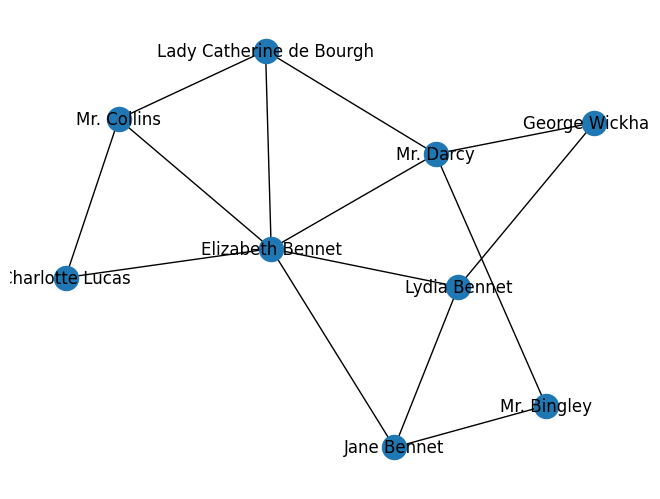
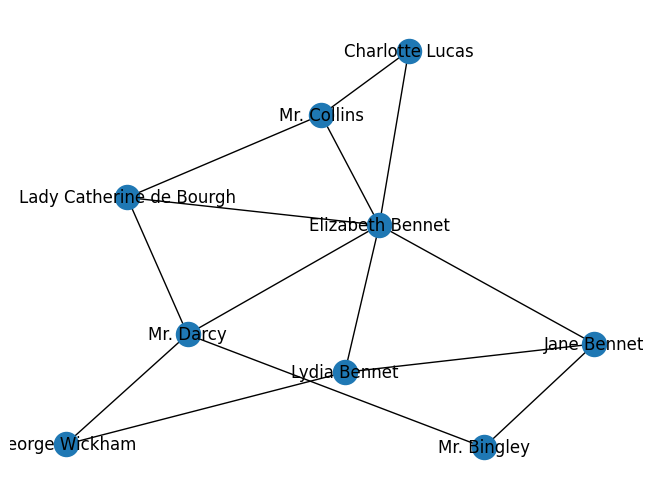
Built site for gh-pages

diff --git a/posts/DataPreProcessingandInformation/DataPreprocessingandInformation.html b/posts/DataPreProcessingandInformation/DataPreprocessingandInformation.html
@@ -218,7 +218,7 @@ code span.wa { color: #60a0b0; font-weight: bold; font-style: italic; } /* Warni
 
 
 
-<div class="cell" data-scrolled="true" data-execution_count="1">
+<div class="cell" data-scrolled="true" data-execution_count="3">
 <div class="sourceCode cell-code" id="cb1"><pre class="sourceCode python code-with-copy"><code class="sourceCode python"><span id="cb1-1"><a href="#cb1-1" aria-hidden="true" tabindex="-1"></a><span class="im">import</span> pandas <span class="im">as</span> pd</span>
 <span id="cb1-2"><a href="#cb1-2" aria-hidden="true" tabindex="-1"></a><span class="im">import</span> requests</span>
 <span id="cb1-3"><a href="#cb1-3" aria-hidden="true" tabindex="-1"></a><span class="im">import</span> matplotlib.pyplot <span class="im">as</span> plt</span>
@@ -260,11 +260,11 @@ code span.wa { color: #60a0b0; font-weight: bold; font-style: italic; } /* Warni
 [nltk_data] Downloading package wordnet to /home/jovyan/nltk_data...
 [nltk_data]   Package wordnet is already up-to-date!</code></pre>
 </div>
-<div class="cell-output cell-output-display" data-execution_count="1">
+<div class="cell-output cell-output-display" data-execution_count="3">
 <pre><code>True</code></pre>
 </div>
 </div>
-<div class="cell" data-execution_count="2">
+<div class="cell" data-execution_count="4">
 <div class="sourceCode cell-code" id="cb4"><pre class="sourceCode python code-with-copy"><code class="sourceCode python"><span id="cb4-1"><a href="#cb4-1" aria-hidden="true" tabindex="-1"></a>target_url <span class="op">=</span> <span class="st">"https://www.gutenberg.org/files/1342/1342-0.txt"</span></span>
 <span id="cb4-2"><a href="#cb4-2" aria-hidden="true" tabindex="-1"></a>response <span class="op">=</span> requests.get(target_url)</span>
 <span id="cb4-3"><a href="#cb4-3" aria-hidden="true" tabindex="-1"></a>pnp_string <span class="op">=</span> response.text</span>
@@ -272,7 +272,7 @@ code span.wa { color: #60a0b0; font-weight: bold; font-style: italic; } /* Warni
 <span id="cb4-5"><a href="#cb4-5" aria-hidden="true" tabindex="-1"></a>pnp_string <span class="op">=</span> pnp_string.split(<span class="st">'*** END OF THE PROJECT GUTENBERG EBOOK PRIDE AND PREJUDICE ***'</span>)[<span class="dv">0</span>]</span>
 <span id="cb4-6"><a href="#cb4-6" aria-hidden="true" tabindex="-1"></a>pnp_string <span class="op">=</span> pnp_string.lower()</span></code><button title="Copy to Clipboard" class="code-copy-button"><i class="bi"></i></button></pre></div>
 </div>
-<div class="cell" data-execution_count="3">
+<div class="cell" data-execution_count="5">
 <div class="sourceCode cell-code" id="cb5"><pre class="sourceCode python code-with-copy"><code class="sourceCode python"><span id="cb5-1"><a href="#cb5-1" aria-hidden="true" tabindex="-1"></a>stop <span class="op">=</span> stopwords.words(<span class="st">'english'</span>)</span>
 <span id="cb5-2"><a href="#cb5-2" aria-hidden="true" tabindex="-1"></a><span class="bu">print</span>(stop)</span>
 <span id="cb5-3"><a href="#cb5-3" aria-hidden="true" tabindex="-1"></a>myStopWords <span class="op">=</span> <span class="bu">list</span>(punctuation) <span class="op">+</span> stopwords.words(<span class="st">'english'</span>)</span>
@@ -291,7 +291,7 @@ code span.wa { color: #60a0b0; font-weight: bold; font-style: italic; } /* Warni
 </section>
 <section id="exploratory-data-visualization" class="level1">
 <h1>Exploratory Data Visualization:</h1>
-<div class="cell" data-execution_count="8">
+<div class="cell" data-execution_count="6">
 <div class="sourceCode cell-code" id="cb7"><pre class="sourceCode python code-with-copy"><code class="sourceCode python"><span id="cb7-1"><a href="#cb7-1" aria-hidden="true" tabindex="-1"></a><span class="co"># 1. Positive/negative words for Pride and Prejudice:</span></span>
 <span id="cb7-2"><a href="#cb7-2" aria-hidden="true" tabindex="-1"></a></span>
 <span id="cb7-3"><a href="#cb7-3" aria-hidden="true" tabindex="-1"></a>positive_words <span class="op">=</span> []</span>
@@ -331,28 +331,31 @@ code span.wa { color: #60a0b0; font-weight: bold; font-style: italic; } /* Warni
 <p><img src="DataPreprocessingandInformation_files/figure-html/cell-5-output-2.png" class="img-fluid"></p>
 </div>
 </div>
-<div class="cell" data-scrolled="true" data-execution_count="27">
+<div class="cell" data-scrolled="true" data-execution_count="7">
 <div class="sourceCode cell-code" id="cb8"><pre class="sourceCode python code-with-copy"><code class="sourceCode python"><span id="cb8-1"><a href="#cb8-1" aria-hidden="true" tabindex="-1"></a><span class="co"># 2. Word Frequency for Pride and Prejudice</span></span>
 <span id="cb8-2"><a href="#cb8-2" aria-hidden="true" tabindex="-1"></a></span>
 <span id="cb8-3"><a href="#cb8-3" aria-hidden="true" tabindex="-1"></a>pnp_words <span class="op">=</span> word_tokenize(pnp_string)</span>
 <span id="cb8-4"><a href="#cb8-4" aria-hidden="true" tabindex="-1"></a>myStopWords <span class="op">=</span> <span class="bu">list</span>(punctuation) <span class="op">+</span> stopwords.words(<span class="st">'english'</span>)</span>
 <span id="cb8-5"><a href="#cb8-5" aria-hidden="true" tabindex="-1"></a>wordsNoStop <span class="op">=</span> []</span>
-<span id="cb8-6"><a href="#cb8-6" aria-hidden="true" tabindex="-1"></a><span class="cf">for</span> i <span class="kw">in</span> pnp_words:</span>
-<span id="cb8-7"><a href="#cb8-7" aria-hidden="true" tabindex="-1"></a>    <span class="cf">if</span> i <span class="kw">not</span> <span class="kw">in</span> myStopWords:</span>
-<span id="cb8-8"><a href="#cb8-8" aria-hidden="true" tabindex="-1"></a>        wordsNoStop.append(i)</span>
-<span id="cb8-9"><a href="#cb8-9" aria-hidden="true" tabindex="-1"></a>wordsNoStopComp <span class="op">=</span> [w <span class="cf">for</span> w <span class="kw">in</span> pnp_words <span class="cf">if</span> w <span class="kw">not</span> <span class="kw">in</span> myStopWords]</span>
-<span id="cb8-10"><a href="#cb8-10" aria-hidden="true" tabindex="-1"></a>pnp_words <span class="op">=</span> [PorterStemmer().stem(w) <span class="cf">for</span> w <span class="kw">in</span> wordsNoStopComp]</span>
-<span id="cb8-11"><a href="#cb8-11" aria-hidden="true" tabindex="-1"></a></span>
-<span id="cb8-12"><a href="#cb8-12" aria-hidden="true" tabindex="-1"></a><span class="bu">print</span>(nltk.FreqDist(pnp_words).most_common(<span class="dv">40</span>))</span>
-<span id="cb8-13"><a href="#cb8-13" aria-hidden="true" tabindex="-1"></a></span>
-<span id="cb8-14"><a href="#cb8-14" aria-hidden="true" tabindex="-1"></a>df <span class="op">=</span> pd.DataFrame({<span class="st">'words'</span>: nltk.FreqDist(pnp_words).keys(),</span>
-<span id="cb8-15"><a href="#cb8-15" aria-hidden="true" tabindex="-1"></a>                   <span class="st">'frequencies'</span>: nltk.FreqDist(pnp_words).values()}) </span>
+<span id="cb8-6"><a href="#cb8-6" aria-hidden="true" tabindex="-1"></a></span>
+<span id="cb8-7"><a href="#cb8-7" aria-hidden="true" tabindex="-1"></a><span class="cf">for</span> i <span class="kw">in</span> pnp_words:</span>
+<span id="cb8-8"><a href="#cb8-8" aria-hidden="true" tabindex="-1"></a>    <span class="cf">if</span> i <span class="kw">not</span> <span class="kw">in</span> myStopWords:</span>
+<span id="cb8-9"><a href="#cb8-9" aria-hidden="true" tabindex="-1"></a>        wordsNoStop.append(i)</span>
+<span id="cb8-10"><a href="#cb8-10" aria-hidden="true" tabindex="-1"></a></span>
+<span id="cb8-11"><a href="#cb8-11" aria-hidden="true" tabindex="-1"></a>porterstem_words <span class="op">=</span> []</span>
+<span id="cb8-12"><a href="#cb8-12" aria-hidden="true" tabindex="-1"></a><span class="cf">for</span> w <span class="kw">in</span> wordsNoStop:</span>
+<span id="cb8-13"><a href="#cb8-13" aria-hidden="true" tabindex="-1"></a>    porterstem_words.append(PorterStemmer().stem(w))</span>
+<span id="cb8-14"><a href="#cb8-14" aria-hidden="true" tabindex="-1"></a></span>
+<span id="cb8-15"><a href="#cb8-15" aria-hidden="true" tabindex="-1"></a><span class="bu">print</span>(nltk.FreqDist(porterstem_words).most_common(<span class="dv">40</span>))</span>
 <span id="cb8-16"><a href="#cb8-16" aria-hidden="true" tabindex="-1"></a></span>
-<span id="cb8-17"><a href="#cb8-17" aria-hidden="true" tabindex="-1"></a>df[<span class="st">'frequencies'</span>].plot(kind <span class="op">=</span> <span class="st">'hist'</span>, bins<span class="op">=</span><span class="dv">7</span>)</span>
-<span id="cb8-18"><a href="#cb8-18" aria-hidden="true" tabindex="-1"></a>plt.xlabel(<span class="st">'Frequency'</span>)</span>
-<span id="cb8-19"><a href="#cb8-19" aria-hidden="true" tabindex="-1"></a>plt.ylabel(<span class="st">'Count'</span>)</span>
-<span id="cb8-20"><a href="#cb8-20" aria-hidden="true" tabindex="-1"></a>plt.title(<span class="st">'Word Frequencies in Pride and Prejudice'</span>)</span>
-<span id="cb8-21"><a href="#cb8-21" aria-hidden="true" tabindex="-1"></a>plt.show()</span></code><button title="Copy to Clipboard" class="code-copy-button"><i class="bi"></i></button></pre></div>
+<span id="cb8-17"><a href="#cb8-17" aria-hidden="true" tabindex="-1"></a>df <span class="op">=</span> pd.DataFrame({<span class="st">'words'</span>: nltk.FreqDist(porterstem_words).keys(),</span>
+<span id="cb8-18"><a href="#cb8-18" aria-hidden="true" tabindex="-1"></a>                   <span class="st">'frequencies'</span>: nltk.FreqDist(porterstem_words).values()}) </span>
+<span id="cb8-19"><a href="#cb8-19" aria-hidden="true" tabindex="-1"></a></span>
+<span id="cb8-20"><a href="#cb8-20" aria-hidden="true" tabindex="-1"></a>df[<span class="st">'frequencies'</span>].plot(kind <span class="op">=</span> <span class="st">'hist'</span>, bins<span class="op">=</span><span class="dv">7</span>)</span>
+<span id="cb8-21"><a href="#cb8-21" aria-hidden="true" tabindex="-1"></a>plt.xlabel(<span class="st">'Frequency'</span>)</span>
+<span id="cb8-22"><a href="#cb8-22" aria-hidden="true" tabindex="-1"></a>plt.ylabel(<span class="st">'Count'</span>)</span>
+<span id="cb8-23"><a href="#cb8-23" aria-hidden="true" tabindex="-1"></a>plt.title(<span class="st">'Word Frequencies in Pride and Prejudice'</span>)</span>
+<span id="cb8-24"><a href="#cb8-24" aria-hidden="true" tabindex="-1"></a>plt.show()</span></code><button title="Copy to Clipboard" class="code-copy-button"><i class="bi"></i></button></pre></div>
 <div class="cell-output cell-output-stdout">
 <pre><code>[('mr.', 789), ('â\x80\x9d', 789), ('elizabeth', 602), ('could', 527), ('--', 498), ('would', 480), ('said', 406), ('darci', 377), ('mrs.', 346), ('much', 331), ('â\x80\x9ci', 322), ('bennet', 314), ('must', 310), ('miss', 308), ('one', 285), ('know', 274), ('jane', 270), ('bingley', 263), ('ladi', 256), ('sister', 247), ('think', 244), ('though', 234), ('never', 227), ('time', 219), ('see', 217), ('soon', 214), ('make', 210), ('say', 205), ('might', 204), ('may', 197), ('well', 191), ('littl', 188), ('everi', 185), ('wish', 184), ('noth', 183), ('look', 177), ('good', 174), ('without', 173), ('even', 173), ('hope', 172)]</code></pre>
 </div>
@@ -360,35 +363,49 @@ code span.wa { color: #60a0b0; font-weight: bold; font-style: italic; } /* Warni
 <p><img src="DataPreprocessingandInformation_files/figure-html/cell-6-output-2.png" class="img-fluid"></p>
 </div>
 </div>
-<div class="cell" data-scrolled="true" data-execution_count="26">
+<div class="cell" data-scrolled="true" data-execution_count="8">
 <div class="sourceCode cell-code" id="cb10"><pre class="sourceCode python code-with-copy"><code class="sourceCode python"><span id="cb10-1"><a href="#cb10-1" aria-hidden="true" tabindex="-1"></a><span class="co"># 3. Most Common Adjectives</span></span>
 <span id="cb10-2"><a href="#cb10-2" aria-hidden="true" tabindex="-1"></a></span>
 <span id="cb10-3"><a href="#cb10-3" aria-hidden="true" tabindex="-1"></a>pnp_words <span class="op">=</span> word_tokenize(pnp_string)</span>
-<span id="cb10-4"><a href="#cb10-4" aria-hidden="true" tabindex="-1"></a>wordLancasterStems <span class="op">=</span> [LancasterStemmer().stem(w) <span class="cf">for</span> w <span class="kw">in</span> pnp_words]</span>
-<span id="cb10-5"><a href="#cb10-5" aria-hidden="true" tabindex="-1"></a>wordPorterStems <span class="op">=</span> [PorterStemmer().stem(w) <span class="cf">for</span> w <span class="kw">in</span> pnp_words]</span>
-<span id="cb10-6"><a href="#cb10-6" aria-hidden="true" tabindex="-1"></a></span>
-<span id="cb10-7"><a href="#cb10-7" aria-hidden="true" tabindex="-1"></a>pnp_pos <span class="op">=</span> nltk.pos_tag(pnp_words)</span>
-<span id="cb10-8"><a href="#cb10-8" aria-hidden="true" tabindex="-1"></a></span>
-<span id="cb10-9"><a href="#cb10-9" aria-hidden="true" tabindex="-1"></a>adjectives <span class="op">=</span> [word[<span class="dv">0</span>] <span class="cf">for</span> word <span class="kw">in</span> pnp_pos <span class="cf">if</span> word[<span class="dv">1</span>] <span class="kw">in</span> [<span class="st">'JJ'</span>, <span class="st">'JJS'</span>, <span class="st">'JJR'</span>]]</span>
-<span id="cb10-10"><a href="#cb10-10" aria-hidden="true" tabindex="-1"></a>pnp_freqdist <span class="op">=</span> nltk.FreqDist(adjectives)</span>
-<span id="cb10-11"><a href="#cb10-11" aria-hidden="true" tabindex="-1"></a>df <span class="op">=</span> pd.DataFrame(<span class="bu">list</span>(pnp_freqdist.items()), columns<span class="op">=</span>[<span class="st">'Word'</span>, <span class="st">'Frequency'</span>])</span>
-<span id="cb10-12"><a href="#cb10-12" aria-hidden="true" tabindex="-1"></a>df <span class="op">=</span> df.sort_values(<span class="st">'Frequency'</span>, ascending<span class="op">=</span><span class="va">False</span>)</span>
-<span id="cb10-13"><a href="#cb10-13" aria-hidden="true" tabindex="-1"></a></span>
-<span id="cb10-14"><a href="#cb10-14" aria-hidden="true" tabindex="-1"></a>plt.figure(figsize<span class="op">=</span>(<span class="dv">10</span>, <span class="dv">5</span>))</span>
-<span id="cb10-15"><a href="#cb10-15" aria-hidden="true" tabindex="-1"></a>plt.bar(df[<span class="st">'Word'</span>][:<span class="dv">10</span>], df[<span class="st">'Frequency'</span>][:<span class="dv">10</span>])</span>
-<span id="cb10-16"><a href="#cb10-16" aria-hidden="true" tabindex="-1"></a>plt.title(<span class="st">'Most Common Adjectives'</span>)</span>
-<span id="cb10-17"><a href="#cb10-17" aria-hidden="true" tabindex="-1"></a>plt.xlabel(<span class="st">'Adjective'</span>)</span>
-<span id="cb10-18"><a href="#cb10-18" aria-hidden="true" tabindex="-1"></a>plt.ylabel(<span class="st">'Frequency'</span>)</span>
-<span id="cb10-19"><a href="#cb10-19" aria-hidden="true" tabindex="-1"></a>plt.show()</span></code><button title="Copy to Clipboard" class="code-copy-button"><i class="bi"></i></button></pre></div>
+<span id="cb10-4"><a href="#cb10-4" aria-hidden="true" tabindex="-1"></a></span>
+<span id="cb10-5"><a href="#cb10-5" aria-hidden="true" tabindex="-1"></a>wordLancasterStems <span class="op">=</span> []</span>
+<span id="cb10-6"><a href="#cb10-6" aria-hidden="true" tabindex="-1"></a><span class="cf">for</span> w <span class="kw">in</span> pnp_words:</span>
+<span id="cb10-7"><a href="#cb10-7" aria-hidden="true" tabindex="-1"></a>    stemmer <span class="op">=</span> LancasterStemmer()</span>
+<span id="cb10-8"><a href="#cb10-8" aria-hidden="true" tabindex="-1"></a>    wordLancasterStems.append(stemmer.stem(w))</span>
+<span id="cb10-9"><a href="#cb10-9" aria-hidden="true" tabindex="-1"></a></span>
+<span id="cb10-10"><a href="#cb10-10" aria-hidden="true" tabindex="-1"></a>wordPorterStems <span class="op">=</span> []</span>
+<span id="cb10-11"><a href="#cb10-11" aria-hidden="true" tabindex="-1"></a><span class="cf">for</span> w <span class="kw">in</span> pnp_words:</span>
+<span id="cb10-12"><a href="#cb10-12" aria-hidden="true" tabindex="-1"></a>    stemmer <span class="op">=</span> PorterStemmer()</span>
+<span id="cb10-13"><a href="#cb10-13" aria-hidden="true" tabindex="-1"></a>    wordPorterStems.append(stemmer.stem(w))</span>
+<span id="cb10-14"><a href="#cb10-14" aria-hidden="true" tabindex="-1"></a></span>
+<span id="cb10-15"><a href="#cb10-15" aria-hidden="true" tabindex="-1"></a>pnp_pos <span class="op">=</span> nltk.pos_tag(pnp_words)</span>
+<span id="cb10-16"><a href="#cb10-16" aria-hidden="true" tabindex="-1"></a></span>
+<span id="cb10-17"><a href="#cb10-17" aria-hidden="true" tabindex="-1"></a>adjectives <span class="op">=</span> []</span>
+<span id="cb10-18"><a href="#cb10-18" aria-hidden="true" tabindex="-1"></a><span class="cf">for</span> word <span class="kw">in</span> pnp_pos:</span>
+<span id="cb10-19"><a href="#cb10-19" aria-hidden="true" tabindex="-1"></a>    <span class="cf">if</span> word[<span class="dv">1</span>] <span class="kw">in</span> [<span class="st">'JJ'</span>, <span class="st">'JJS'</span>, <span class="st">'JJR'</span>]:</span>
+<span id="cb10-20"><a href="#cb10-20" aria-hidden="true" tabindex="-1"></a>        adjectives.append(word[<span class="dv">0</span>])</span>
+<span id="cb10-21"><a href="#cb10-21" aria-hidden="true" tabindex="-1"></a></span>
+<span id="cb10-22"><a href="#cb10-22" aria-hidden="true" tabindex="-1"></a>pnp_freqdist <span class="op">=</span> nltk.FreqDist(adjectives)</span>
+<span id="cb10-23"><a href="#cb10-23" aria-hidden="true" tabindex="-1"></a></span>
+<span id="cb10-24"><a href="#cb10-24" aria-hidden="true" tabindex="-1"></a>pnp_freqdist <span class="op">=</span> nltk.FreqDist(adjectives)</span>
+<span id="cb10-25"><a href="#cb10-25" aria-hidden="true" tabindex="-1"></a>df <span class="op">=</span> pd.DataFrame(<span class="bu">list</span>(pnp_freqdist.items()), columns<span class="op">=</span>[<span class="st">'Word'</span>, <span class="st">'Frequency'</span>])</span>
+<span id="cb10-26"><a href="#cb10-26" aria-hidden="true" tabindex="-1"></a>df <span class="op">=</span> df.sort_values(<span class="st">'Frequency'</span>, ascending<span class="op">=</span><span class="va">False</span>)</span>
+<span id="cb10-27"><a href="#cb10-27" aria-hidden="true" tabindex="-1"></a></span>
+<span id="cb10-28"><a href="#cb10-28" aria-hidden="true" tabindex="-1"></a>plt.figure(figsize<span class="op">=</span>(<span class="dv">10</span>, <span class="dv">5</span>))</span>
+<span id="cb10-29"><a href="#cb10-29" aria-hidden="true" tabindex="-1"></a>plt.bar(df[<span class="st">'Word'</span>][:<span class="dv">10</span>], df[<span class="st">'Frequency'</span>][:<span class="dv">10</span>])</span>
+<span id="cb10-30"><a href="#cb10-30" aria-hidden="true" tabindex="-1"></a>plt.title(<span class="st">'Most Common Adjectives'</span>)</span>
+<span id="cb10-31"><a href="#cb10-31" aria-hidden="true" tabindex="-1"></a>plt.xlabel(<span class="st">'Adjective'</span>)</span>
+<span id="cb10-32"><a href="#cb10-32" aria-hidden="true" tabindex="-1"></a>plt.ylabel(<span class="st">'Frequency'</span>)</span>
+<span id="cb10-33"><a href="#cb10-33" aria-hidden="true" tabindex="-1"></a>plt.show()</span></code><button title="Copy to Clipboard" class="code-copy-button"><i class="bi"></i></button></pre></div>
 <div class="cell-output cell-output-stderr">
-<pre><code>/tmp/ipykernel_239/692061512.py:15: FutureWarning: The behavior of `series[i:j]` with an integer-dtype index is deprecated. In a future version, this will be treated as *label-based* indexing, consistent with e.g. `series[i]` lookups. To retain the old behavior, use `series.iloc[i:j]`. To get the future behavior, use `series.loc[i:j]`.
+<pre><code>/tmp/ipykernel_88/2555601944.py:29: FutureWarning: The behavior of `series[i:j]` with an integer-dtype index is deprecated. In a future version, this will be treated as *label-based* indexing, consistent with e.g. `series[i]` lookups. To retain the old behavior, use `series.iloc[i:j]`. To get the future behavior, use `series.loc[i:j]`.
   plt.bar(df['Word'][:10], df['Frequency'][:10])</code></pre>
 </div>
 <div class="cell-output cell-output-display">
 <p><img src="DataPreprocessingandInformation_files/figure-html/cell-7-output-2.png" class="img-fluid"></p>
 </div>
 </div>
-<div class="cell" data-execution_count="42">
+<div class="cell" data-execution_count="9">
 <div class="sourceCode cell-code" id="cb12"><pre class="sourceCode python code-with-copy"><code class="sourceCode python"><span id="cb12-1"><a href="#cb12-1" aria-hidden="true" tabindex="-1"></a><span class="co"># 4. Character Network Visualization</span></span>
 <span id="cb12-2"><a href="#cb12-2" aria-hidden="true" tabindex="-1"></a></span>
 <span id="cb12-3"><a href="#cb12-3" aria-hidden="true" tabindex="-1"></a>G <span class="op">=</span> nx.Graph()</span>

diff --git a/index.html b/index.html
@@ -166,7 +166,7 @@ ul.task-list li input[type="checkbox"] {
 
 <div class="quarto-listing quarto-listing-container-default" id="listing-listing">
 <div class="list quarto-listing-default">
-<div class="quarto-post image-right" data-index="0" data-categories="code" data-listing-date-sort="1678665600000" data-listing-file-modified-sort="1678864555544" data-listing-reading-time-sort="1.07">
+<div class="quarto-post image-right" data-index="0" data-categories="code" data-listing-date-sort="1678665600000" data-listing-file-modified-sort="1678951298589" data-listing-reading-time-sort="1.07">
 <div class="thumbnail">
 <a href="./posts/DataPreProcessingandInformation/DataPreprocessingandInformation.html">
 <div class="thumbnail-image">
